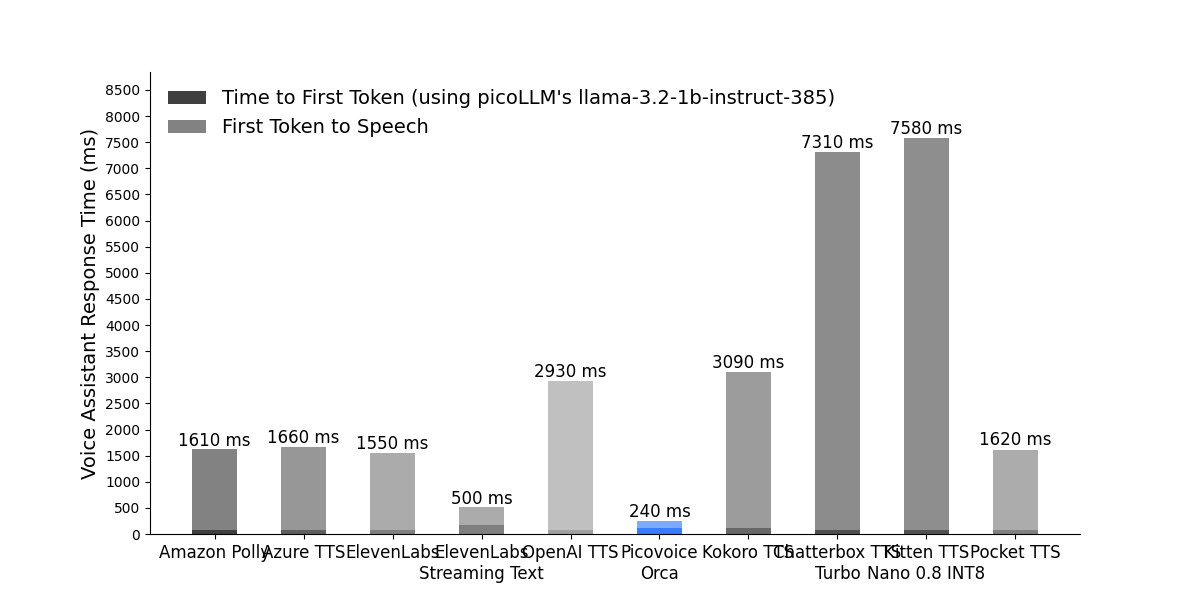
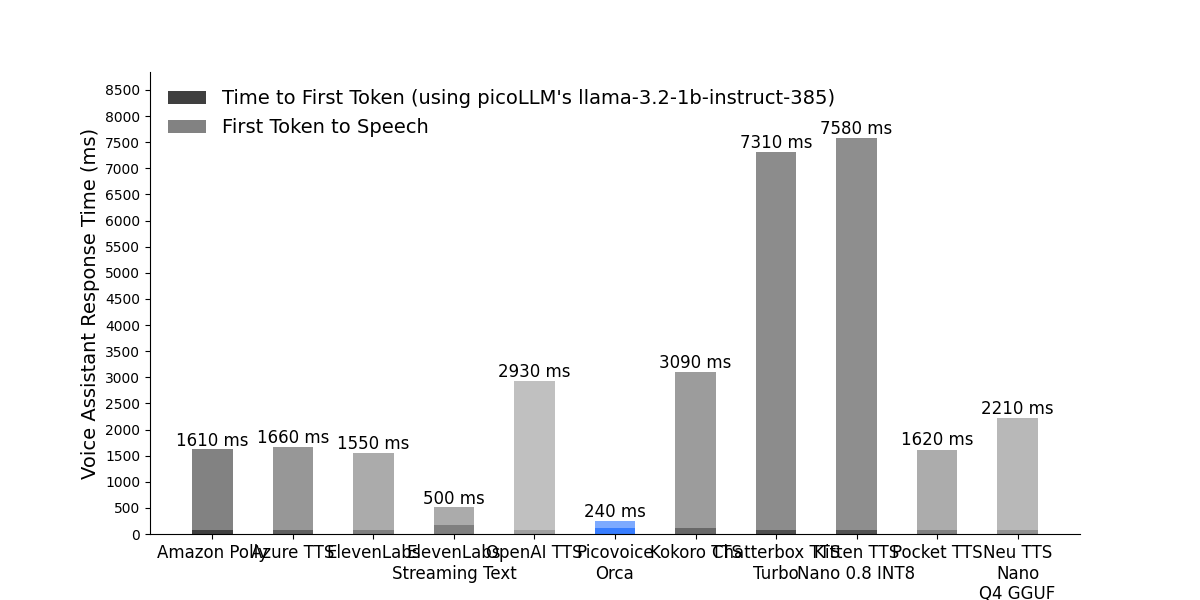
Added result for Neu-TTS-Nano-Q4-GGUF.

Changed region(s): [[0.1233, 0.18, 0.8942, 1.0]]

diff --git a/plot_results.py b/plot_results.py
@@ -33,6 +33,7 @@ COLOR_KOKORO_TTS = rgb_from_hex("#686868")
 COLOR_CHATTERBOX_TTS_TURBO = rgb_from_hex("#4F4F4F")
 COLOR_KITTEN_TTS = rgb_from_hex("#515151")
 COLOR_POCKET_TTS = rgb_from_hex("#808080")
+COLOR_NEU_TTS_NANO_Q4_GGUF = rgb_from_hex("#929292")
 
 ENGINE_PRINT_NAMES = {
     Synthesizers.AMAZON_POLLY: 'Amazon Polly',
@@ -45,6 +46,7 @@ ENGINE_PRINT_NAMES = {
     Synthesizers.CHATTERBOX_TTS_TURBO: "Chatterbox TTS\nTurbo",
     Synthesizers.KITTEN_TTS: "Kitten TTS\nNano 0.8 INT8",
     Synthesizers.POCKET_TTS: "Pocket TTS",
+    Synthesizers.NEU_TTS_NANO_Q4_GGUF: "Neu TTS\nNano\nQ4 GGUF",
 }
 
 ENGINE_COLORS = {
@@ -58,6 +60,7 @@ ENGINE_COLORS = {
     Synthesizers.CHATTERBOX_TTS_TURBO: COLOR_CHATTERBOX_TTS_TURBO,
     Synthesizers.KITTEN_TTS: COLOR_KITTEN_TTS,
     Synthesizers.POCKET_TTS: COLOR_POCKET_TTS,
+    Synthesizers.NEU_TTS_NANO_Q4_GGUF: COLOR_NEU_TTS_NANO_Q4_GGUF,
 }
 
 
